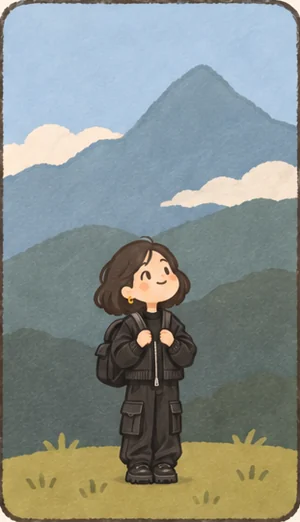
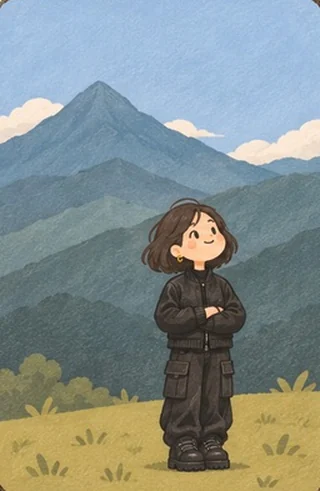
Thay 20 tranh moi, do lai toa do khung tu chinh tranh
- 20 bo cuc deu co tranh minh hoa cua Nghi
- cx, topY, h do lai tu hop bao quanh nguoi trong tung tranh
- Giu ti le nguoi that thay vi ti le chibi cua tranh
- Bo che do tu do, tat khung dang nguoi trong Cai neu can luoi tron

Claude-Session: https://claude.ai/code/session_01AmuG9JMkamWn6mQCBk3t3V

diff --git a/index.html b/index.html
@@ -308,97 +308,68 @@ const SC={
   plain:[{t:'r',x:0,y:0,w:1,h:1,c:'sky'},{t:'r',x:0,y:.72,w:1,h:.28,c:'near'}]
 };
 
-const POSES_ALL=[
- {id:'p1',fig:'portrait',cx:.70,topY:.30,h:.62,ratio:'2:3',sc:'temple',
-  name:'Nửa người lệch phải, công trình sau lưng',
-  hint:'Người đứng gần máy, lệch hẳn sang phải. Công trình nằm trọn ở nửa trên bên trái. Chạm vào mặt trên màn hình để lấy nét, nền phía sau mờ đi là đúng.'},
- {id:'p2',fig:'cross',cx:.60,topY:.423,h:.555,ratio:'3:4',sc:'wall',
-  name:'Toàn thân giữa khung, cảnh trải phía sau',
-  hint:'Lùi lại cho lấy trọn cảnh phía sau. Người đứng tầm giữa, chừa khoảng trống hai bên. Giữ mép tường hoặc đường chân trời nằm ngang.'},
- {id:'p3',fig:'reach',cx:.53,topY:.475,h:.806,ratio:'2:3',sc:'hutong',
+const POSES=[
+ {id:'c01',fig:'portrait',cx:.54,topY:.19,h:.75,ratio:'2:3',sc:'temple',
+  name:'Nửa người lệch phải, vòm đá sau lưng',
+  hint:'Người đứng gần máy, lệch sang phải. Công trình nằm ở nửa trên bên trái.'},
+ {id:'c02',fig:'cross',cx:.50,topY:.38,h:.56,ratio:'2:3',sc:'wall',
+  name:'Toàn thân giữa khung, núi phía sau',
+  hint:'Đứng giữa khung, khoanh tay. Lùi xa cho cảnh trải hết nửa trên.'},
+ {id:'c03',fig:'reach',cx:.45,topY:.26,h:1.28,ratio:'2:3',sc:'hutong',
   name:'Tay đưa cao, cắt ngang đùi',
-  hint:'Giơ tay lên che nắng hoặc cầm món gì đó cao hơn đầu. Khung cắt ngang khoảng giữa đùi, chừa phố phía trước mặt.'},
- {id:'p4',fig:'lean',cx:.51,topY:.204,h:.756,ratio:'3:4',sc:'tree',
-  name:'Tựa tường hoặc gốc cây, góc thấp',
-  hint:'Hạ máy xuống tầm hông rồi hướng chếch lên cho chân dài ra. Lấy trọn bàn chân, đừng cắt ngang mắt cá.'},
- {id:'p5',fig:'open',cx:.46,topY:.47,h:.485,ratio:'2:3',sc:'bund',
+  hint:'Một tay đưa lên chỉ hoặc che nắng. Khung cắt ngang giữa đùi.'},
+ {id:'c04',fig:'lean',cx:.58,topY:.19,h:.75,ratio:'2:3',sc:'tree',
+  name:'Tựa tường, toàn thân lệch phải',
+  hint:'Tựa vai vào tường, tay đút túi. Hạ máy thấp cho chân dài ra.'},
+ {id:'c05',fig:'open',cx:.50,topY:.40,h:.56,ratio:'2:3',sc:'bund',
   name:'Hai tay dang trên lan can',
-  hint:'Đứng chính diện, hai tay dang đặt lên lan can. Lùi xa cho lấy được cảnh phía sau, chừa trời phía trên.'},
- {id:'p6',fig:'standing',cx:.543,topY:.668,h:.254,ratio:'3:4',sc:'bundwide',
-  name:'Người nhỏ, cảnh lớn',
-  hint:'Lùi thật xa. Người chỉ chiếm phần nhỏ ở một phần ba dưới, cảnh chiếm hai phần ba trên. Giữ đường chân trời nằm ngang.'},
- {id:'p7',fig:'standing',cx:.543,topY:.774,h:.213,ratio:'2:3',sc:'alley',
-  name:'Ngẩng nhìn lên giữa phố',
-  hint:'Hạ máy thấp và hướng lên cho hai bên phố đổ vào giữa. Người đứng giữa, sát đáy khung, mặt ngẩng nhìn lên.'},
- {id:'p8',fig:'sitrail',cx:.50,topY:.353,h:.72,ratio:'2:3',sc:'night',
-  name:'Ngồi tựa lan can',
-  hint:'Ngồi lên lan can, một tay chống xuống. Mép lan can nằm ngang ở khoảng một phần ba dưới. Lấy nét vào người, đèn phía sau để mờ.'},
- {id:'p9',fig:'turn',cx:.448,topY:.505,h:.417,ratio:'3:4',sc:'tower',
-  name:'Quay đầu nhìn lại giữa phố',
-  hint:'Đi về phía trước vài bước rồi quay đầu nhìn lại. Người lệch sang trái, chừa con đường chạy dài về phía sau.'},
- {id:'p10',fig:'portrait',cx:.50,topY:.06,h:.78,ratio:'3:4',sc:'plain',
-  name:'Chân dung chính diện, mặt ở 1/3 trên',
-  hint:'Máy ngang tầm mắt, cách một sải tay. Mặt nằm ở vạch ngang trên, chừa khoảng trống phía trên đầu.'},
- {id:'p11',fig:'portrait',cx:.50,topY:-.18,h:1.50,ratio:'3:4',sc:'plain',
+  hint:'Đứng chính diện, hai tay dang đặt lên lan can. Lấy trọn cảnh phía sau.'},
+ {id:'c06',fig:'standing',cx:.45,topY:.70,h:.22,ratio:'9:16',sc:'bundwide',
+  name:'Người nhỏ giữa nhà cao tầng',
+  hint:'Lùi thật xa. Người chiếm phần nhỏ ở đáy khung, nhà choán hết phía trên.'},
+ {id:'c07',fig:'standing',cx:.47,topY:.77,h:.17,ratio:'9:16',sc:'alley',
+  name:'Người nhỏ cuối con phố hẹp',
+  hint:'Đứng giữa lòng đường, máy thấp. Hai dãy nhà chụm về phía người.'},
+ {id:'c08',fig:'sitrail',cx:.47,topY:.42,h:.85,ratio:'9:16',sc:'bund',
+  name:'Tựa lan can, chống cằm',
+  hint:'Tựa khuỷu tay lên lan can, chống cằm. Khung cắt ngang hông.'},
+ {id:'c09',fig:'portrait',cx:.62,topY:.18,h:.67,ratio:'9:16',sc:'tree',
+  name:'Nửa người lệch phải, cầm hoa',
+  hint:'Người lệch phải, tay cầm vật gì đó đưa lên ngang ngực. Chừa trái cho khung cảnh.'},
+ {id:'c10',fig:'portrait',cx:.52,topY:-.05,h:1.89,ratio:'9:16',sc:'plain',
   name:'Cận mặt, cắt ngang trán',
-  hint:'Tiến sát lại, cắt ngang trán cho mặt choán khung. Lấy nét vào mắt.'},
- {id:'p12',fig:'portrait',cx:.33,topY:.10,h:.80,ratio:'3:4',sc:'tree',
-  name:'Chân dung lệch trái, chừa nền bên phải',
-  hint:'Người lệch hẳn sang trái, chừa nửa phải cho khung cảnh. Mắt nhìn về phía khoảng trống.'},
- {id:'p13',fig:'standing',cx:.50,topY:.05,h:1.45,ratio:'3:4',sc:'alley',
+  hint:'Tiến sát lại, mặt choán gần hết khung, cắt ngang trán. Lấy nét vào mắt.'},
+ {id:'c11',fig:'standing',cx:.50,topY:.09,h:1.72,ratio:'9:16',sc:'hutong',
   name:'Nửa người chính diện, cắt ngang hông',
-  hint:'Cắt ngang ngay dưới hông, đừng cắt đúng khớp. Hai tay buông tự nhiên.'},
- {id:'p14',fig:'lean',cx:.36,topY:.08,h:1.50,ratio:'2:3',sc:'hutong',
-  name:'Nửa người lệch trái, dáng thả lỏng',
-  hint:'Người lệch trái, vai thả lỏng, tay buông hoặc đút túi. Chừa phần phải cho quán xá phía sau.'},
- {id:'p15',fig:'standing',cx:.28,topY:.62,h:.30,ratio:'3:4',sc:'bundwide',
-  name:'Người ở góc dưới trái, cảnh choán phần trên',
-  hint:'Lùi xa, đặt người ở góc dưới bên trái. Cảnh chiếm trọn hai phần ba phía trên.'},
- {id:'p16',fig:'standing',cx:.50,topY:.58,h:.34,ratio:'3:4',sc:'bund',
-  name:'Người giữa khung, đường chân trời thấp',
-  hint:'Hạ đường chân trời xuống thấp cho trời rộng ra. Người đứng giữa, chân sát vạch dưới.'},
- {id:'p17',fig:'standing',cx:.52,topY:.46,h:.51,ratio:'3:4',sc:'temple',
+  hint:'Đứng chính diện, hai tay buông. Cắt ngang ngay dưới hông.'},
+ {id:'c12',fig:'standing',cx:.50,topY:.46,h:.47,ratio:'9:16',sc:'temple',
   name:'Toàn thân trên bậc thềm, công trình đối xứng',
-  hint:'Đứng giữa bậc thềm, canh công trình cân đối hai bên. Người chiếm nửa dưới khung, chừa trọn phần mái phía trên.'},
- {id:'p18',fig:'standing',cx:.50,topY:.52,h:.30,ratio:'3:4',sc:'temple',
-  name:'Đứng trong khung cửa, khung trong khung',
-  hint:'Lùi ra ngoài cửa, lấy trọn ô cửa làm viền bao quanh. Người đứng chính giữa phần sáng, chừa đều hai bên.'},
- {id:'p19',fig:'standing',cx:.38,topY:.66,h:.26,ratio:'3:4',sc:'plain',
-  name:'Người nhỏ trước mảng tường lớn',
-  hint:'Lùi thật xa cho mảng tường choán gần hết khung. Người đứng nhỏ ở một phần ba dưới, lệch hẳn sang một bên.'},
- {id:'p20',fig:'reach',cx:.40,topY:.40,h:.58,ratio:'3:4',sc:'tower',
-  name:'Vươn tay chạm công trình ở xa',
-  hint:'Đứng gần máy hơn công trình nhiều, vươn tay về phía nó. Người lùi tới lui cho bàn tay chạm đúng đỉnh.'},
- {id:'p21',fig:'turn',cx:.48,topY:.44,h:.48,ratio:'2:3',sc:'wall',
-  name:'Quay lưng bước lên bậc thang',
-  hint:'Người quay lưng bước lên, máy đứng yên phía dưới. Lấy bậc thang chạy dài phía trước làm đường dẫn mắt.'},
- {id:'p22',fig:'open',cx:.45,topY:.14,h:1.30,ratio:'3:4',sc:'bund',
+  hint:'Đứng giữa bậc thềm, canh công trình cân đối hai bên.'},
+ {id:'c13',fig:'standing',cx:.50,topY:.60,h:.18,ratio:'9:16',sc:'temple',
+  name:'Đứng trong khung cửa vòm',
+  hint:'Lùi ra ngoài, lấy trọn vòm cửa làm viền. Người đứng giữa phần sáng.'},
+ {id:'c14',fig:'open',cx:.52,topY:.13,h:1.64,ratio:'9:16',sc:'bund',
   name:'Tựa lan can cao, ngửa mặt',
-  hint:'Tựa lưng vào lan can, một tay vịn dọc thanh ngang, mặt hơi ngửa lên. Cắt ngang hông, lấy trọn cảnh phía sau.'},
- {id:'p23',fig:'standing',cx:.62,topY:.30,h:.64,ratio:'3:4',sc:'hutong',
-  name:'Đứng cạnh mảng màu lớn, tay chạm vào',
-  hint:'Tìm mảng màu lớn như tường đỏ, áp phích hay cánh cửa. Người đứng lệch một bên, một tay chạm vào mảng đó.'},
- {id:'p24',fig:'sitrail',cx:.42,topY:.30,h:.62,ratio:'3:4',sc:'bund',
-  name:'Ngồi ghế, chân bắt chéo, cảnh phía sau',
-  hint:'Ngồi nghiêng người, chân bắt chéo, mắt nhìn ra xa. Máy hạ ngang tầm ngực, lấy trọn cảnh phía sau.'},
- {id:'p25',fig:'sitrail',cx:.40,topY:.34,h:.56,ratio:'3:4',sc:'alley',
+  hint:'Tựa lưng vào lan can, hai tay vịn thanh ngang, mặt ngửa lên.'},
+ {id:'c15',fig:'standing',cx:.72,topY:.30,h:.63,ratio:'9:16',sc:'hutong',
+  name:'Đứng cạnh mảng tường màu, tay chạm vào',
+  hint:'Tìm mảng tường màu lớn. Người đứng lệch phải, một tay chạm vào tường.'},
+ {id:'c16',fig:'sitrail',cx:.47,topY:.22,h:.67,ratio:'9:16',sc:'tree',
+  name:'Ngồi ghế dài, chân chạm đất',
+  hint:'Ngồi hẳn lên ghế, hai tay đặt trên đùi. Lấy trọn bàn chân.'},
+ {id:'c17',fig:'sitrail',cx:.40,topY:.32,h:.55,ratio:'9:16',sc:'alley',
   name:'Ngồi trong hành lang dài',
-  hint:'Ngồi lệch sang một bên hành lang, để dãy cột chạy hút về phía sau làm đường dẫn mắt.'},
- {id:'p26',fig:'sitrail',cx:.50,topY:.38,h:.55,ratio:'2:3',sc:'temple',
-  name:'Ngồi trên bậc thềm, chân duỗi',
-  hint:'Ngồi trên bậc thềm, chân duỗi về phía máy. Máy hạ thấp gần ngang mặt bậc.'},
- {id:'p27',fig:'portrait',cx:.30,topY:.58,h:.75,ratio:'3:4',sc:'temple',
-  name:'Nhìn qua vai, đầu chiếm tiền cảnh',
-  hint:'Người quay lưng đứng sát máy, đầu và vai chiếm góc dưới. Lấy nét vào cảnh phía trước mặt.'},
- {id:'free',fig:null,cx:.5,topY:.3,h:.6,ratio:'3:4',sc:'plain',
-  name:'Tự do, chỉ lưới và thước cân',
-  hint:'Chỉ có lưới và thước cân máy. Dùng khi tự căn góc hoặc khi đã chọn ảnh mẫu riêng.'}
+  hint:'Ngồi lệch sang một bên, để dãy cột chạy hút về phía sau.'},
+ {id:'c18',fig:'sitrail',cx:.50,topY:.34,h:.56,ratio:'9:16',sc:'temple',
+  name:'Ngồi trên bậc thềm dưới vòm',
+  hint:'Ngồi giữa bậc thềm, hai tay chống hai bên. Lấy vòm cửa phía trên.'},
+ {id:'c19',fig:'portrait',cx:.40,topY:.455,h:1.00,ratio:'9:16',sc:'temple',
+  name:'Nhìn qua vai, đầu chiếm góc dưới',
+  hint:'Quay lưng đứng sát máy, đầu và vai nằm ở góc dưới. Lấy nét vào cảnh phía trước.'},
+ {id:'c20',fig:'turn',cx:.60,topY:.17,h:.70,ratio:'9:16',sc:'plain',
+  name:'Đi ngang, bắt bước chân',
+  hint:'Đi ngang qua khung, máy bấm lúc chân đang bước. Chừa khoảng trống phía trước.'}
 ];
-/* Bộ chủ đạo: mỗi nhóm cỡ người giữ 3 tới 4 bố cục khác hẳn nhau.
-   Các bố cục còn lại vẫn nằm trong POSES_ALL, bật lại bằng cách thêm id vào đây. */
-const CORE=new Set(['p1','p2','p3','p4','p5','p6','p7','p8','p10','p11',
-                    'p13','p17','p18','p22','p23','p24','p25','p26','p27','free']);
-const POSES = POSES_ALL.filter(p=>CORE.has(p.id));
 const RATIOS={'3:4':[3,4],'2:3':[2,3],'9:16':[9,16],'1:1':[1,1]};
 
 /* ===== vẽ ===== */
@@ -462,17 +433,14 @@ const E={};['stage','video','demo','ghost','crop','ov','coach','flash','start','
   'tipFit','btnLock','strip','refs','gg','galSub','scrim','rngOp','btnRef','btnGal','btnShoot',
   'fileIn','btnHand','mlst','resNote'].forEach(k=>E[k]=$(k));
 const pose=()=>POSES[S.i];
-const SHOT={p1:'portrait',p2:'full',p3:'half',p4:'full',p5:'full',
-            p6:'far',p7:'far',p8:'half',p9:'full',
-            p10:'portrait',p11:'portrait',p12:'portrait',
-            p13:'half',p14:'half',
-            p15:'far',p16:'far',p17:'full',
-            p18:'far',p19:'far',p20:'full',p21:'full',p22:'half',
-            p23:'full',p24:'sit',p25:'sit',p26:'sit',p27:'portrait',free:null};
+const SHOT={c01:'portrait',c09:'portrait',c10:'portrait',c19:'portrait',
+            c02:'full',c04:'full',c05:'full',c12:'full',c15:'full',c20:'full',
+            c03:'half',c08:'half',c11:'half',c14:'half',
+            c06:'far',c07:'far',c13:'far',
+            c16:'sit',c17:'sit',c18:'sit'};
 const SHOTNAME={far:'Người nhỏ trong cảnh',full:'Toàn thân',sit:'Ngồi',
                 half:'Nửa người',portrait:'Chân dung'};
-const ART={p1:'poses/1.webp',p2:'poses/2.webp',p3:'poses/3.webp',
-           p4:'poses/4.webp',p5:'poses/5.webp',p6:'poses/6.webp'};
+const ART={c01:'poses/1.webp',c02:'poses/2.webp',c03:'poses/3.webp',c04:'poses/4.webp',c05:'poses/5.webp',c06:'poses/6.webp',c07:'poses/7.webp',c08:'poses/8.webp',c09:'poses/9.webp',c10:'poses/10.webp',c11:'poses/11.webp',c12:'poses/12.webp',c13:'poses/13.webp',c14:'poses/14.webp',c15:'poses/15.webp',c16:'poses/16.webp',c17:'poses/17.webp',c18:'poses/18.webp',c19:'poses/19.webp',c20:'poses/20.webp'};
 
 /* ===================== kho ảnh mẫu ===================== */
 let _db,REFS=[];
@@ -563,33 +531,16 @@ function drawRefs(){
    Không hiểu nội dung cảnh, chỉ đo bố cục. */
 const SCAN={w:48,h:64,cv:null,g:null,last:0,feat:null,rank:[]};
 const WANT={
-  p1:{vert:.75,clutter:.55,openTop:.45},
-  p2:{openTop:.60,clutter:.40,lineY:.60,lineStr:.50},
-  p3:{clutter:.60,vert:.50},
-  p4:{vert:.80,clutter:.50,openTop:.30},
-  p5:{lineStr:.70,lineY:.55,openTop:.55},
-  p6:{openTop:.80,clutter:.25},
-  p7:{vert:.85,clutter:.60,openTop:.30},
-  p8:{lineStr:.70,lineY:.70,bright:.35},
-  p9:{vert:.60,clutter:.55,lineY:.45},
-  p10:{clutter:.35,openTop:.50},
-  p11:{clutter:.30,openTop:.35},
-  p12:{vert:.55,clutter:.45,openTop:.45},
-  p13:{clutter:.50,vert:.50},
-  p14:{clutter:.60,vert:.55},
-  p15:{openTop:.70,clutter:.30},
-  p16:{openTop:.85,clutter:.20,lineY:.70,lineStr:.45},
-  p17:{vert:.70,clutter:.45,openTop:.45,lineY:.55},
-  p18:{vert:.78,clutter:.55,openTop:.22},
-  p19:{openTop:.80,clutter:.14,vert:.22},
-  p20:{vert:.72,clutter:.45,openTop:.52},
-  p21:{vert:.58,clutter:.52,lineY:.50,lineStr:.55},
-  p22:{lineStr:.62,lineY:.58,openTop:.52},
-  p23:{clutter:.55,vert:.60,openTop:.30},
-  p24:{lineStr:.55,lineY:.55,openTop:.55},
-  p25:{vert:.80,clutter:.55,openTop:.25},
-  p26:{vert:.60,clutter:.50,lineY:.60,lineStr:.50},
-  p27:{vert:.65,clutter:.50,openTop:.40}
+  c01:{vert:.72,clutter:.52,openTop:.42}, c02:{openTop:.62,clutter:.35,lineY:.58,lineStr:.45},
+  c03:{clutter:.58,vert:.52},             c04:{vert:.78,clutter:.48,openTop:.32},
+  c05:{lineStr:.68,lineY:.56,openTop:.55},c06:{openTop:.70,clutter:.30,vert:.55},
+  c07:{vert:.85,clutter:.60,openTop:.28}, c08:{lineStr:.62,lineY:.58,openTop:.50},
+  c09:{clutter:.55,vert:.45,openTop:.40}, c10:{clutter:.30,openTop:.35},
+  c11:{clutter:.50,vert:.50},             c12:{vert:.70,clutter:.45,openTop:.45},
+  c13:{vert:.78,clutter:.55,openTop:.22}, c14:{lineStr:.60,lineY:.58,openTop:.52},
+  c15:{openTop:.60,clutter:.25,vert:.35}, c16:{clutter:.55,vert:.45,openTop:.35},
+  c17:{vert:.82,clutter:.55,openTop:.25}, c18:{vert:.65,clutter:.50,lineY:.55},
+  c19:{vert:.65,clutter:.50,openTop:.38}, c20:{openTop:.72,clutter:.25,lineY:.62,lineStr:.45}
 };
 function scan(){
   const v=E.video;if(!v.videoWidth)return;
